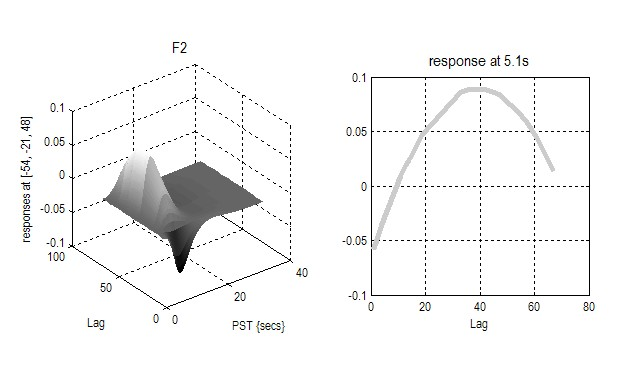
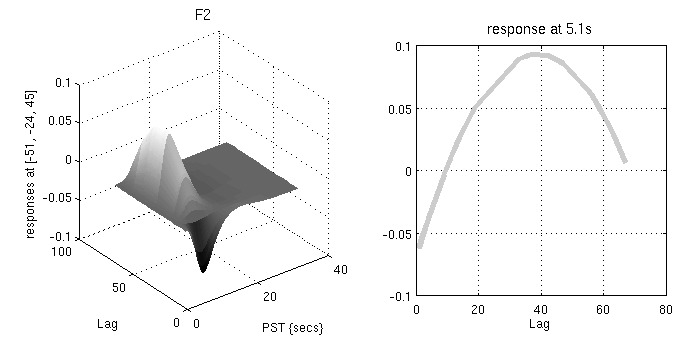
Remove the Euclidian normalisation in spm_graph.m for parametric modulation, to conform to the change made in spm_get_ons.m in r444. See SPM list, post by Torben, 20 Nov 2009.
SVN r3598

diff --git a/spm_graph.m b/spm_graph.m
@@ -69,7 +69,7 @@ function [Y,y,beta,Bcov] = spm_graph(xSPM,SPM,hReg)
 % Copyright (C) 2008 Wellcome Trust Centre for Neuroimaging
 
 % Karl Friston
-% $Id: spm_graph.m 2663 2009-01-28 20:24:36Z karl $
+% $Id: spm_graph.m 3598 2009-11-26 11:48:59Z guillaume $
 
 
 
@@ -566,7 +566,7 @@ switch Cplot
         P     = Sess(s).U(u).P(p).P;
         q     = [];
         for i = 0:Sess(s).U(u).P(p).h;
-            q = [q spm_en(P).^i];
+            q = [q P.^i];
         end
         q     = spm_orth(q);
 
